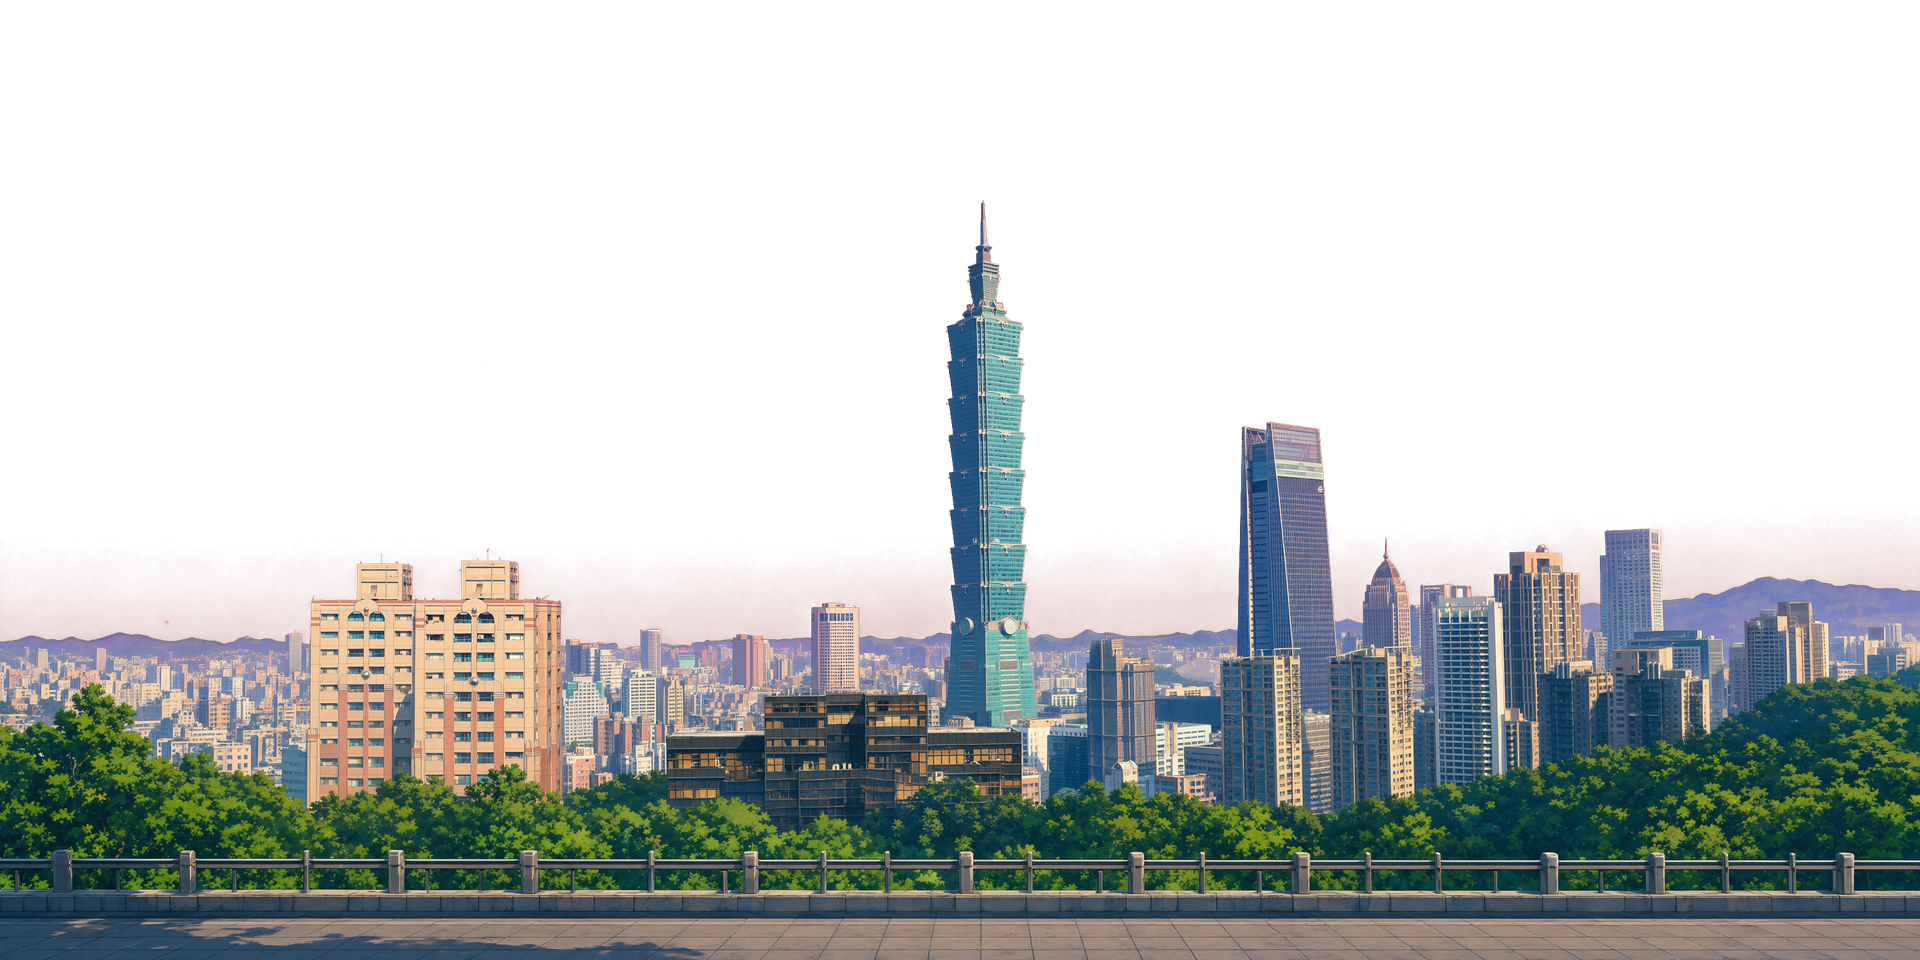
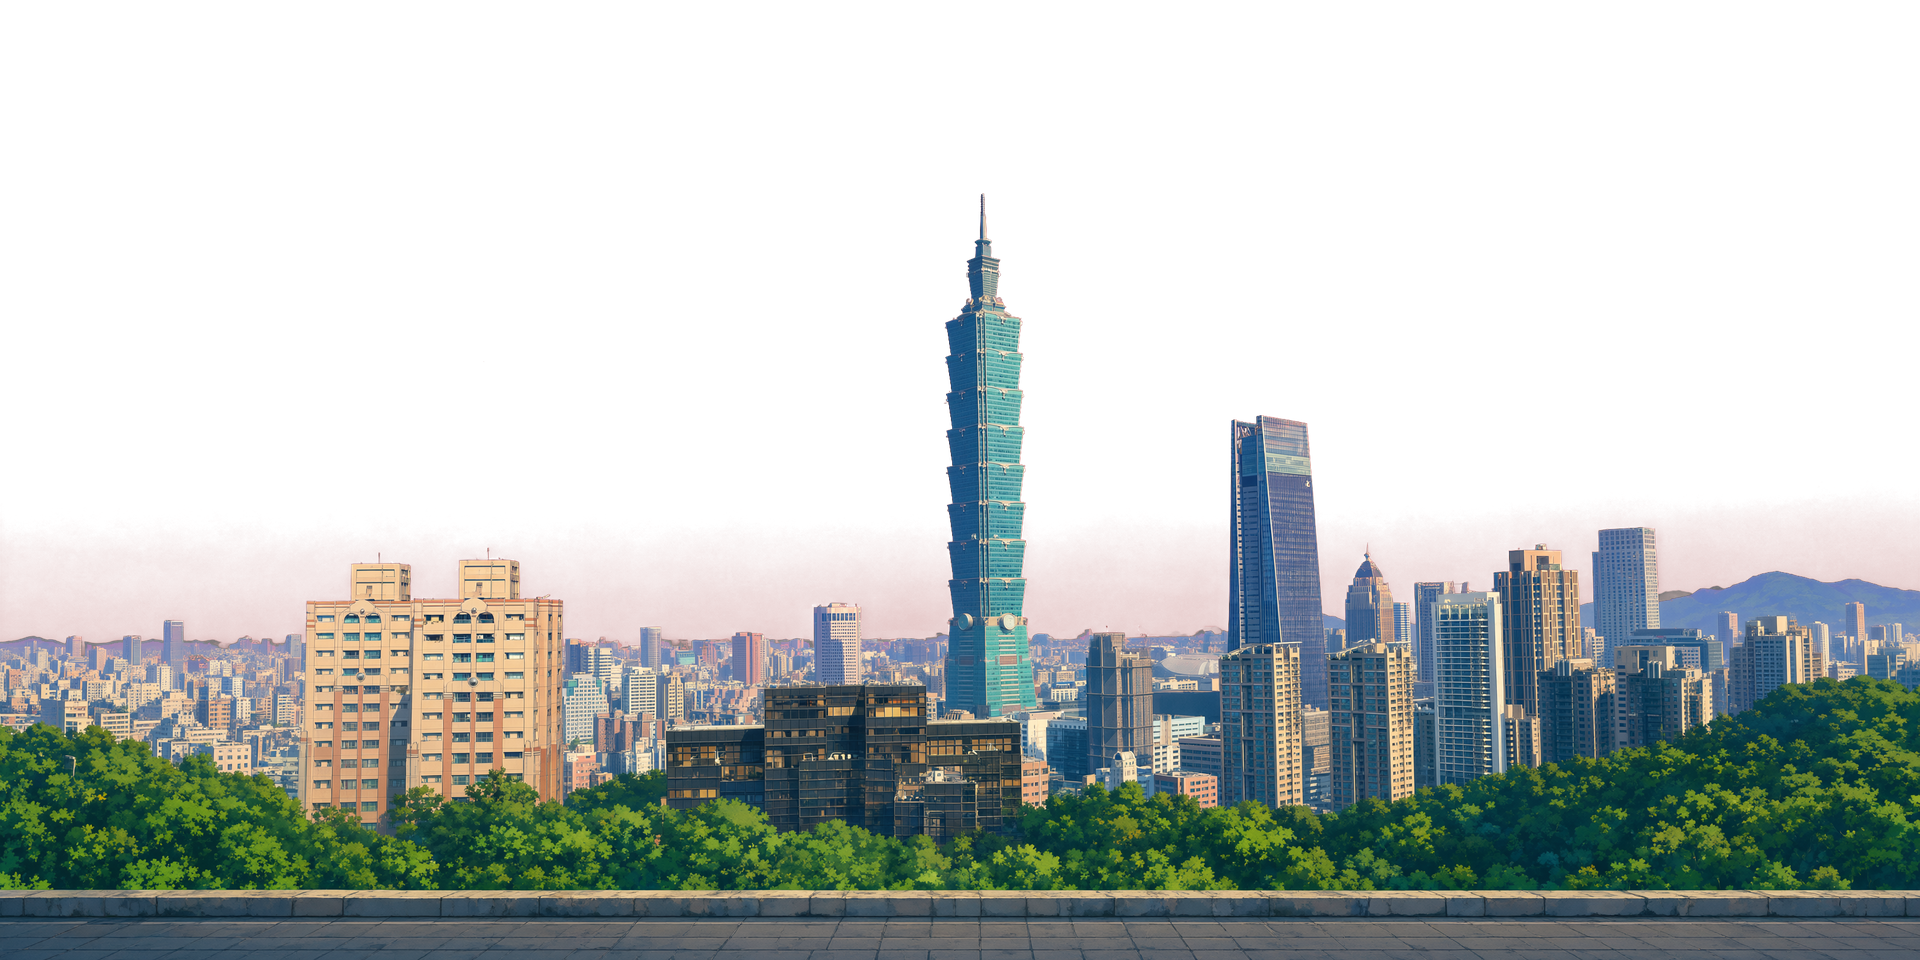
Demo v0.3.23: level 5 background split into a railing-free view plus its own railing layer that scrolls faster than the distant view (distant parallax 12%), paving strip kept as the road, sparser railing posts

Changed region(s): [[0.0, 0.25, 1.0, 1.0]]

diff --git a/level.js b/level.js
@@ -22,7 +22,7 @@ const PERSP = {
   2: { bottom: 1129, band: 65, vpy: 967, vpx: 0.5, base: [245, 215, 190], pave: [241, 206, 181], frontMax: 528 },   // frontMax: the front edge of the hole's floor (front plane) must stay above this screen row (user 2026-10-12: level 2's pit floor ran off the bottom edge); the pit gets shallower to fit
   3: { bottom: 1215, band: 70, vpy: 1040, vpx: 0.5, base: [108, 91, 96], pave: [81, 70, 80], frontMax: 528 },
   4: { bottom: 1250, band: 60, vpy: 1100, vpx: 0.5781, base: [42, 57, 133], pave: [32, 42, 121], glass: true },   // glass: the rim of a hole is the bright teal glass edge (like the cross-section's top rows), with red warning lamps
-  5: { bottom: 1312, band: 76, vpy: 1157, vpx: 0.5, base: [157, 137, 126], pave: [145, 128, 120] },   // level 5 (user 2026-10-12): perspective floor like levels 1-4; no pits on this level, so only the band / cross-section are used
+  5: { bottom: 1312, band: 67, vpy: 1157, vpx: 0.5, base: [157, 137, 126], pave: [145, 128, 120] },   // level 5 (user 2026-10-12): perspective floor like levels 1-4; no pits on this level, so only the band / cross-section are used
   6: { bottom: 1135, band: 76, vpy: 980, vpx: 0.5, base: [198, 135, 77], pave: [153, 103, 67], frontMax: 528 },   // level 6 (user 2026-10-12, night market): picture cut at the street band in front of the shops; same frontMax as level 3 (same y_ground)
   18: { bottom: 1312, band: 76, vpy: 990, vpx: 0.5, base: [125, 114, 113], pave: [112, 103, 106], frontMax: 528 }   // level 18 (user 2026-10-13, Ximending wide panorama pano45_s2101): numbers from art_eval/lv_shinkai/v3/out/L18v3_pano45p_s2105_persp.json (2026-10-13: 2105p + TAIPEI painted by add_taipei_text.py, no grey band; replaced 2101p, backup art_eval/persp/prev2101p_*) (vpy 899 measured from the crossing stripe edges 2026-10-13, was the pipeline default 1157)
 };
@@ -33,6 +33,8 @@ const FIRE_ENTER_DMG = 8, FIRE_DMG = 2, FIRE_TICK_MS = 500, FIRE_LINGER_MS = 250
 const POISON_DMG = 1, POISON_TICK_MS = 500, POISON_LINGER_MS = 8000;
 // Warning board lines per pit kind (a random one is shown on the far wall of each pit). spikes / pebble / fire = the user's words (2026-10-12); poison = suggestions, to be picked by the user. The level-4 bottomless pit uses the level's own pit_warning_texts.
 const PIT_WARN = { spikes: ['很尖', '救人喔!'], pebble: ['健康?', '我踩!'], fire: ['燒A!', '五分熟'], poison: ['有毒!', '別喝!', '毒你喔', '快閃!', '不是珍奶'] };
+const RAIL_H_SRC = 150, RAIL_FOOT = 1203, RAIL_PAR = 0.85;   // level 5 railing layer: height in source-picture px, foot row on the parapet, share of the camera scroll it moves (the feet plane = 1)
+const BACKDROP_PARALLAX = { 5: 0.12 };   // per-level override of the default 0.03 (user 2026-10-13: level 5's railing / distant view looked frozen while walking); a larger value scales the picture up
 const FLOOD_SLOW = 0.5;   // flood (user 2026-10-13): walking speed x0.5 (the jump is x1/sqrt2 = half the height, in player.js)
 const PERSP_FACE_DY = 12;   // the cross-section's top edge sits this far below the ground line (= the picture's bottom edge)
 
@@ -91,7 +93,8 @@ class LevelScene extends Phaser.Scene {
     
     // Scale logic: use actual texture dimensions for sky-cut images too
     const isCustomArt = this.skyCut || custom;
-    const s = Math.max(isCustomArt ? (GAME_W + 2 * 0.03 * Math.max(0, lvl.width - GAME_W) + 4) / bd.width : GAME_W / bd.width, 540 / bd.height);
+    this._bdPar = BACKDROP_PARALLAX[RUN.level] || 0.03;   // backdrop parallax: share of the camera scroll the picture moves (the picture is scaled up to stay covered)
+    const s = Math.max(isCustomArt ? (GAME_W + 2 * this._bdPar * Math.max(0, lvl.width - GAME_W) + 4) / bd.width : GAME_W / bd.width, 540 / bd.height);
     bd.setScale(s);
     
     // level 1 is a far view: the picture ends at the foot of the building, so sit its bottom edge on the ground line (the plaza tile is drawn by the program)
@@ -100,6 +103,17 @@ class LevelScene extends Phaser.Scene {
     if ((RUN.level <= 6 || RUN.level === 18) && isCustomArt) { bd.setOrigin(0.5, 1); bd.y = lvl.y_ground + (this._persp ? PERSP_FACE_DY : 8); }
 
     this.backdrop = bd;
+
+    // Level 5 (user 2026-10-13): the railing is a separate layer that scrolls faster than the distant view. One post-to-post tile (fg_lv05_rail, art_eval/sky_cut/make_lv05_split.py) repeats along the walkway,
+    // standing on the picture's own stone parapet (src row RAIL_FOOT of the 3168 x 1312 picture); it takes the same colour look as the backdrop (weather.js).
+    this.railFg = null;
+    if (RUN.level === 5 && isCustomArt && this.textures.exists('fg_lv05_rail')) {
+      const k = s * 1920 / 3168;                                    // source-picture px -> screen px
+      const tex = this.textures.get('fg_lv05_rail').getSourceImage(), sc = (RAIL_H_SRC / tex.height) * k;
+      const rl = this.add.tileSprite(0, bd.y - (1312 - RAIL_FOOT) * k, GAME_W, tex.height * sc, 'fg_lv05_rail').setOrigin(0, 1).setScrollFactor(0).setDepth(-19.9);
+      rl.setTileScale(sc, sc); rl._sc = sc;   // the tile is scaled, the sprite's own size is in screen px
+      this.railFg = rl;
+    }
 
     // Level 4 glass floor (user 2026-10-12): the walkable band of the backdrop is semi-transparent glass; the strip behind the backdrop (the view straight down on Taipei) shows through it (see _drawGlassFloor)
     this._glassUV = null; this._glassG = null; this._glassLook = false;
@@ -342,7 +356,8 @@ class LevelScene extends Phaser.Scene {
     if ((typeof Extras !== 'undefined')) Extras.update(this, time, delta);
 
     // Backdrop parallax
-    if (this.backdrop) this.backdrop.x = GAME_W / 2 - this.cameras.main.scrollX * 0.03;
+    if (this.backdrop) this.backdrop.x = GAME_W / 2 - this.cameras.main.scrollX * this._bdPar;
+    if (this.railFg) this.railFg.tilePositionX = this.cameras.main.scrollX * RAIL_PAR / this.railFg._sc;
     if (this._pitG) this._drawPitsPersp();
     if (this._glassUV) this._drawGlassFloor();
 

diff --git a/weather.js b/weather.js
@@ -1203,17 +1203,18 @@ var WX = (function () {
       ctx.sky = skyG;
 
       // 2. Backdrop Tinting (Depth -20 is backdrop)
-      var bd = scene.backdrop;
-      if (bd && bd.active) {
-        if (scene.renderer.type === Phaser.WEBGL && bd.postFX) {
-          var cm = bd.postFX.addColorMatrix();
-          if (look.sat !== 0) cm.saturate(look.sat);
-          if (look.bri !== 1) cm.brightness(look.bri, true); // multiply
-        } else {
-          // Canvas fallback: use tint to approximate brightness/saturation
-          if (look.tint) bd.setTint(look.tint);
+      [scene.backdrop, scene.railFg].forEach(function (bd) {   // level 5's railing layer gets the backdrop's colour look
+        if (bd && bd.active) {
+          if (scene.renderer.type === Phaser.WEBGL && bd.postFX) {
+            var cm = bd.postFX.addColorMatrix();
+            if (look.sat !== 0) cm.saturate(look.sat);
+            if (look.bri !== 1) cm.brightness(look.bri, true); // multiply
+          } else {
+            // Canvas fallback: use tint to approximate brightness/saturation
+            if (look.tint) bd.setTint(look.tint);
+          }
         }
-      }
+      });
 
     }
 
@@ -1321,11 +1322,12 @@ var WX = (function () {
           if (ctx.sky) ctx.sky.destroy();
           if (ctx.skyObjs) { for (var so = 0; so < ctx.skyObjs.length; so++) ctx.skyObjs[so].destroy(); ctx.skyObjs = []; ctx.skyFx = null; }
           
-          var bd = scene.backdrop;
-          if (bd && bd.active) {
-            if (bd.postFX) bd.postFX.clear();
-            bd.clearTint();
-          }
+          [scene.backdrop, scene.railFg].forEach(function (bd) {
+            if (bd && bd.active) {
+              if (bd.postFX) bd.postFX.clear();
+              bd.clearTint();
+            }
+          });
         }
 
         var i;

diff --git a/main.js b/main.js
@@ -170,6 +170,7 @@ class BootScene extends Phaser.Scene {
       var skKey = 'lv' + (skLv < 10 ? '0' : '') + skLv;
       this.load.image('backdrop_' + skKey + '_sky', 'assets/backdrop_' + skKey + '_sky.png');
     }
+    this.load.image('fg_lv05_rail', 'assets/fg_lv05_rail.png');   // level 5: the railing is its own scrolling layer (level.js), one seamless post-to-post tile
     this.load.image('underview_lv04', 'assets/underview_lv04.png');   // level 4 glass floor: the view straight down on Taipei (level.js _drawGlassFloor)
     // Cloud pieces for the sunny sky effects (weather.js buildSkyFx)
     WX.skyPieces().forEach(function (p) { this.load.image('skc_' + p[0], 'assets/sky_clouds/' + p[0] + '.png'); }, this);
